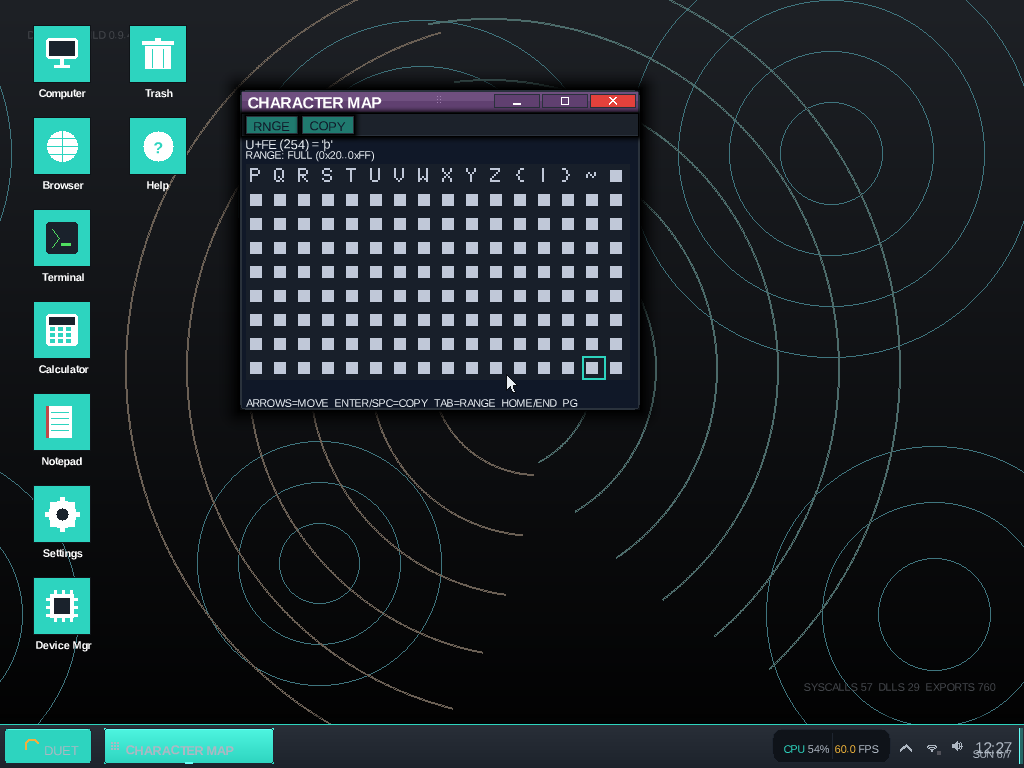
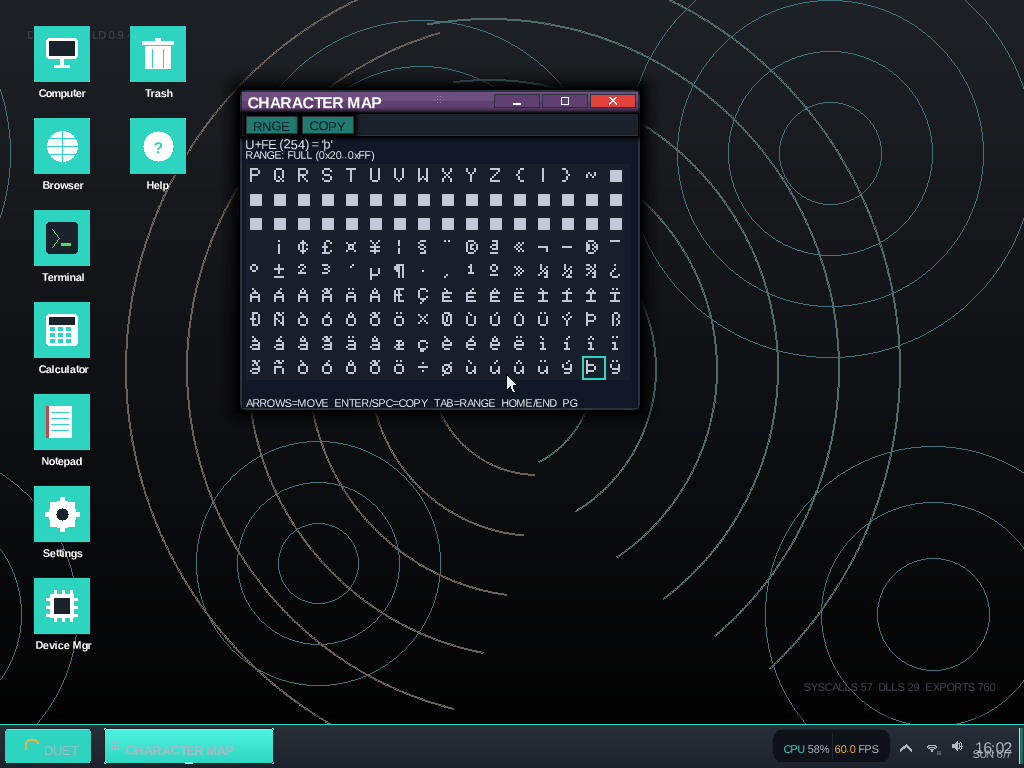
fix(charmap/font): render Latin-1 glyphs (F-016)
Case (b): the shared 8x8 bitmap font had no glyph data above 0x7F,
and Font8x8Lookup(char) took a signed char so every byte 0x80-0xFF
arrived negative, missed all the (positive) ASCII switch cases, and
fell through to the kGlyphBox notdef placeholder. CharMap's FULL
range therefore showed uniform tofu squares for U+0080-00FF.

Fix:
- Read the codepoint byte as u8 before dispatch (fixes the signed
  fall-through latent bug shared by every text caller).
- Add a 96-entry kLatin1[0x60] table for the printable Latin-1
  Supplement block U+00A0-00FF (accented letters, guillemets,
  copyright/registered, degree, plus-minus, division, multiply,
  currency, section, micro, pilcrow, fractions, ...). Same
  5x7-in-8x8 convention as the ASCII glyphs.
- The C1 control block 0x80-0x9F stays on the placeholder box
  (non-printable; box is the correct notdef).

The font is shared by every app, so verified ASCII text still
renders unchanged across the desktop icons / taskbar / window
chrome / status bar in the same screenshot.

Verified: WSL x86_64-debug build clean (0 warnings), clang-format
clean on touched files, charmap explore session boot rc=0,
233 self-tests OK / 0 non-deliberate FAIL, charmap-open.png shows
real Latin-1 glyphs across all rows (selected cell U+FE 'thorn').

Changed region(s): [[0.25, 0.3125, 0.625, 0.5], [0.9688, 0.9688, 1.0, 1.0]]

diff --git a/kernel/drivers/video/font8x8.cpp b/kernel/drivers/video/font8x8.cpp
@@ -98,10 +98,240 @@ constinit const u8 kGlyphLBrace[8] = {0x18, 0x20, 0x20, 0x40, 0x20, 0x20, 0x18, 
 constinit const u8 kGlyphRBrace[8] = {0xC0, 0x20, 0x20, 0x10, 0x20, 0x20, 0xC0, 0x00};
 constinit const u8 kGlyphBacktick[8] = {0x40, 0x20, 0x00, 0x00, 0x00, 0x00, 0x00, 0x00};
 
+// ---------------------------------------------------------------
+// Latin-1 Supplement printable range (U+00A0..U+00FF).
+//
+// Indexed by (byte - 0xA0), so kLatin1[0] is U+00A0 (NBSP) and
+// kLatin1[0x5F] is U+00FF ('ÿ'). The C1 control block U+0080..
+// U+009F is non-printable and intentionally NOT covered — those
+// bytes keep returning the placeholder box (correct: there is no
+// glyph for a control code).
+//
+// Same 5x7-in-8x8 convention as the ASCII glyphs above: one byte
+// per row, bit 7 = leftmost pixel, rightmost ~3 columns + bottom
+// row left blank so glyphs kern at the 8-pixel cell advance.
+// Accented letters reuse the base-letter body with a 1-row
+// diacritic stamped into row 0; the base body is shifted to start
+// a row lower where the accent needs the headroom.
+constinit const u8 kLatin1[0x60][8] = {
+    // 0xA0 NBSP — render as blank (a visible space, not a box).
+    {0x00, 0x00, 0x00, 0x00, 0x00, 0x00, 0x00, 0x00},
+    // 0xA1 ¡ inverted exclamation
+    {0x20, 0x00, 0x20, 0x20, 0x20, 0x20, 0x20, 0x00},
+    // 0xA2 ¢ cent
+    {0x20, 0x70, 0xA8, 0xA0, 0xA8, 0x70, 0x20, 0x00},
+    // 0xA3 £ pound
+    {0x30, 0x48, 0x40, 0xE0, 0x40, 0x48, 0xF0, 0x00},
+    // 0xA4 ¤ currency
+    {0x00, 0x88, 0x70, 0x50, 0x70, 0x88, 0x00, 0x00},
+    // 0xA5 ¥ yen
+    {0x88, 0x50, 0x20, 0xF8, 0x20, 0xF8, 0x20, 0x00},
+    // 0xA6 ¦ broken bar
+    {0x20, 0x20, 0x20, 0x00, 0x20, 0x20, 0x20, 0x00},
+    // 0xA7 § section
+    {0x70, 0x80, 0x60, 0x90, 0x60, 0x10, 0x70, 0x00},
+    // 0xA8 ¨ diaeresis
+    {0x50, 0x00, 0x00, 0x00, 0x00, 0x00, 0x00, 0x00},
+    // 0xA9 © copyright
+    {0x70, 0x88, 0xB4, 0xA4, 0xB4, 0x88, 0x70, 0x00},
+    // 0xAA ª feminine ordinal
+    {0x70, 0x10, 0x70, 0x90, 0x70, 0x00, 0xF0, 0x00},
+    // 0xAB « left guillemet
+    {0x00, 0x28, 0x50, 0xA0, 0x50, 0x28, 0x00, 0x00},
+    // 0xAC ¬ not sign
+    {0x00, 0x00, 0x00, 0xF8, 0x08, 0x08, 0x00, 0x00},
+    // 0xAD  soft hyphen — render like hyphen
+    {0x00, 0x00, 0x00, 0xF8, 0x00, 0x00, 0x00, 0x00},
+    // 0xAE ® registered
+    {0x70, 0x88, 0xD4, 0xCC, 0xD4, 0x88, 0x70, 0x00},
+    // 0xAF ¯ macron
+    {0xF8, 0x00, 0x00, 0x00, 0x00, 0x00, 0x00, 0x00},
+    // 0xB0 ° degree
+    {0x60, 0x90, 0x90, 0x60, 0x00, 0x00, 0x00, 0x00},
+    // 0xB1 ± plus-minus
+    {0x20, 0x20, 0xF8, 0x20, 0x20, 0x00, 0xF8, 0x00},
+    // 0xB2 ² superscript 2
+    {0x60, 0x90, 0x20, 0x40, 0xF0, 0x00, 0x00, 0x00},
+    // 0xB3 ³ superscript 3
+    {0xE0, 0x10, 0x60, 0x10, 0xE0, 0x00, 0x00, 0x00},
+    // 0xB4 ´ acute accent
+    {0x10, 0x20, 0x00, 0x00, 0x00, 0x00, 0x00, 0x00},
+    // 0xB5 µ micro
+    {0x00, 0x00, 0x88, 0x88, 0x88, 0xF0, 0x80, 0x80},
+    // 0xB6 ¶ pilcrow
+    {0x78, 0xE8, 0xE8, 0x68, 0x28, 0x28, 0x28, 0x00},
+    // 0xB7 · middle dot
+    {0x00, 0x00, 0x00, 0x20, 0x00, 0x00, 0x00, 0x00},
+    // 0xB8 ¸ cedilla
+    {0x00, 0x00, 0x00, 0x00, 0x00, 0x20, 0x40, 0x00},
+    // 0xB9 ¹ superscript 1
+    {0x20, 0x60, 0x20, 0x20, 0x70, 0x00, 0x00, 0x00},
+    // 0xBA º masculine ordinal
+    {0x60, 0x90, 0x90, 0x60, 0x00, 0xF0, 0x00, 0x00},
+    // 0xBB » right guillemet
+    {0x00, 0xA0, 0x50, 0x28, 0x50, 0xA0, 0x00, 0x00},
+    // 0xBC ¼ one quarter
+    {0x40, 0x48, 0x50, 0x28, 0x58, 0x88, 0x18, 0x00},
+    // 0xBD ½ one half
+    {0x40, 0x48, 0x50, 0x28, 0x48, 0x90, 0x38, 0x00},
+    // 0xBE ¾ three quarters
+    {0xC8, 0x28, 0xD0, 0x28, 0x58, 0x88, 0x18, 0x00},
+    // 0xBF ¿ inverted question
+    {0x20, 0x00, 0x20, 0x40, 0x80, 0x88, 0x70, 0x00},
+    // 0xC0 À A grave
+    {0x40, 0x20, 0x70, 0x88, 0xF8, 0x88, 0x88, 0x00},
+    // 0xC1 Á A acute
+    {0x10, 0x20, 0x70, 0x88, 0xF8, 0x88, 0x88, 0x00},
+    // 0xC2 Â A circumflex
+    {0x20, 0x50, 0x70, 0x88, 0xF8, 0x88, 0x88, 0x00},
+    // 0xC3 Ã A tilde
+    {0x68, 0xB0, 0x70, 0x88, 0xF8, 0x88, 0x88, 0x00},
+    // 0xC4 Ä A diaeresis
+    {0x50, 0x00, 0x70, 0x88, 0xF8, 0x88, 0x88, 0x00},
+    // 0xC5 Å A ring
+    {0x20, 0x50, 0x70, 0x88, 0xF8, 0x88, 0x88, 0x00},
+    // 0xC6 Æ AE ligature
+    {0x78, 0xA0, 0xA0, 0xF0, 0xA0, 0xA0, 0xB8, 0x00},
+    // 0xC7 Ç C cedilla
+    {0x70, 0x88, 0x80, 0x80, 0x88, 0x70, 0x20, 0x40},
+    // 0xC8 È E grave
+    {0x40, 0x20, 0xF8, 0x80, 0xF0, 0x80, 0xF8, 0x00},
+    // 0xC9 É E acute
+    {0x10, 0x20, 0xF8, 0x80, 0xF0, 0x80, 0xF8, 0x00},
+    // 0xCA Ê E circumflex
+    {0x20, 0x50, 0xF8, 0x80, 0xF0, 0x80, 0xF8, 0x00},
+    // 0xCB Ë E diaeresis
+    {0x50, 0x00, 0xF8, 0x80, 0xF0, 0x80, 0xF8, 0x00},
+    // 0xCC Ì I grave
+    {0x40, 0x20, 0xF8, 0x20, 0x20, 0x20, 0xF8, 0x00},
+    // 0xCD Í I acute
+    {0x10, 0x20, 0xF8, 0x20, 0x20, 0x20, 0xF8, 0x00},
+    // 0xCE Î I circumflex
+    {0x20, 0x50, 0xF8, 0x20, 0x20, 0x20, 0xF8, 0x00},
+    // 0xCF Ï I diaeresis
+    {0x50, 0x00, 0xF8, 0x20, 0x20, 0x20, 0xF8, 0x00},
+    // 0xD0 Ð Eth
+    {0x70, 0x48, 0x48, 0xE8, 0x48, 0x48, 0x70, 0x00},
+    // 0xD1 Ñ N tilde
+    {0x68, 0xB0, 0x88, 0xC8, 0xA8, 0x98, 0x88, 0x00},
+    // 0xD2 Ò O grave
+    {0x40, 0x20, 0x70, 0x88, 0x88, 0x88, 0x70, 0x00},
+    // 0xD3 Ó O acute
+    {0x10, 0x20, 0x70, 0x88, 0x88, 0x88, 0x70, 0x00},
+    // 0xD4 Ô O circumflex
+    {0x20, 0x50, 0x70, 0x88, 0x88, 0x88, 0x70, 0x00},
+    // 0xD5 Õ O tilde
+    {0x68, 0xB0, 0x70, 0x88, 0x88, 0x88, 0x70, 0x00},
+    // 0xD6 Ö O diaeresis
+    {0x50, 0x00, 0x70, 0x88, 0x88, 0x88, 0x70, 0x00},
+    // 0xD7 × multiplication
+    {0x00, 0x88, 0x50, 0x20, 0x50, 0x88, 0x00, 0x00},
+    // 0xD8 Ø O slash
+    {0x70, 0x98, 0xA8, 0xA8, 0xA8, 0xC8, 0x70, 0x00},
+    // 0xD9 Ù U grave
+    {0x40, 0x20, 0x88, 0x88, 0x88, 0x88, 0x70, 0x00},
+    // 0xDA Ú U acute
+    {0x10, 0x20, 0x88, 0x88, 0x88, 0x88, 0x70, 0x00},
+    // 0xDB Û U circumflex
+    {0x20, 0x50, 0x88, 0x88, 0x88, 0x88, 0x70, 0x00},
+    // 0xDC Ü U diaeresis
+    {0x50, 0x00, 0x88, 0x88, 0x88, 0x88, 0x70, 0x00},
+    // 0xDD Ý Y acute
+    {0x10, 0x20, 0x88, 0x50, 0x20, 0x20, 0x20, 0x00},
+    // 0xDE Þ Thorn
+    {0x80, 0xF0, 0x88, 0x88, 0xF0, 0x80, 0x80, 0x00},
+    // 0xDF ß sharp s
+    {0x30, 0x48, 0x48, 0x50, 0x48, 0x48, 0x50, 0x00},
+    // 0xE0 à a grave
+    {0x40, 0x20, 0x70, 0x08, 0x78, 0x88, 0x78, 0x00},
+    // 0xE1 á a acute
+    {0x10, 0x20, 0x70, 0x08, 0x78, 0x88, 0x78, 0x00},
+    // 0xE2 â a circumflex
+    {0x20, 0x50, 0x70, 0x08, 0x78, 0x88, 0x78, 0x00},
+    // 0xE3 ã a tilde
+    {0x68, 0xB0, 0x70, 0x08, 0x78, 0x88, 0x78, 0x00},
+    // 0xE4 ä a diaeresis
+    {0x50, 0x00, 0x70, 0x08, 0x78, 0x88, 0x78, 0x00},
+    // 0xE5 å a ring
+    {0x20, 0x50, 0x70, 0x08, 0x78, 0x88, 0x78, 0x00},
+    // 0xE6 æ ae ligature
+    {0x00, 0x00, 0x70, 0x28, 0x78, 0xA0, 0x78, 0x00},
+    // 0xE7 ç c cedilla
+    {0x00, 0x00, 0x70, 0x88, 0x80, 0x88, 0x70, 0x60},
+    // 0xE8 è e grave
+    {0x40, 0x20, 0x70, 0x88, 0xF8, 0x80, 0x70, 0x00},
+    // 0xE9 é e acute
+    {0x10, 0x20, 0x70, 0x88, 0xF8, 0x80, 0x70, 0x00},
+    // 0xEA ê e circumflex
+    {0x20, 0x50, 0x70, 0x88, 0xF8, 0x80, 0x70, 0x00},
+    // 0xEB ë e diaeresis
+    {0x50, 0x00, 0x70, 0x88, 0xF8, 0x80, 0x70, 0x00},
+    // 0xEC ì i grave
+    {0x40, 0x20, 0x00, 0x60, 0x20, 0x20, 0x70, 0x00},
+    // 0xED í i acute
+    {0x10, 0x20, 0x00, 0x60, 0x20, 0x20, 0x70, 0x00},
+    // 0xEE î i circumflex
+    {0x20, 0x50, 0x00, 0x60, 0x20, 0x20, 0x70, 0x00},
+    // 0xEF ï i diaeresis
+    {0x50, 0x00, 0x00, 0x60, 0x20, 0x20, 0x70, 0x00},
+    // 0xF0 ð eth
+    {0x68, 0x30, 0x50, 0x08, 0x78, 0x88, 0x70, 0x00},
+    // 0xF1 ñ n tilde
+    {0x68, 0xB0, 0x00, 0xF0, 0x88, 0x88, 0x88, 0x00},
+    // 0xF2 ò o grave
+    {0x40, 0x20, 0x70, 0x88, 0x88, 0x88, 0x70, 0x00},
+    // 0xF3 ó o acute
+    {0x10, 0x20, 0x70, 0x88, 0x88, 0x88, 0x70, 0x00},
+    // 0xF4 ô o circumflex
+    {0x20, 0x50, 0x70, 0x88, 0x88, 0x88, 0x70, 0x00},
+    // 0xF5 õ o tilde
+    {0x68, 0xB0, 0x70, 0x88, 0x88, 0x88, 0x70, 0x00},
+    // 0xF6 ö o diaeresis
+    {0x50, 0x00, 0x70, 0x88, 0x88, 0x88, 0x70, 0x00},
+    // 0xF7 ÷ division
+    {0x00, 0x20, 0x00, 0xF8, 0x00, 0x20, 0x00, 0x00},
+    // 0xF8 ø o slash
+    {0x00, 0x08, 0x70, 0x98, 0xA8, 0xC8, 0x70, 0x80},
+    // 0xF9 ù u grave
+    {0x40, 0x20, 0x00, 0x88, 0x88, 0x98, 0x68, 0x00},
+    // 0xFA ú u acute
+    {0x10, 0x20, 0x00, 0x88, 0x88, 0x98, 0x68, 0x00},
+    // 0xFB û u circumflex
+    {0x20, 0x50, 0x00, 0x88, 0x88, 0x98, 0x68, 0x00},
+    // 0xFC ü u diaeresis
+    {0x50, 0x00, 0x00, 0x88, 0x88, 0x98, 0x68, 0x00},
+    // 0xFD ý y acute
+    {0x10, 0x20, 0x88, 0x88, 0x78, 0x08, 0x70, 0x00},
+    // 0xFE þ thorn
+    {0x80, 0x80, 0xF0, 0x88, 0x88, 0xF0, 0x80, 0x00},
+    // 0xFF ÿ y diaeresis
+    {0x50, 0x00, 0x88, 0x88, 0x78, 0x08, 0x70, 0x00},
+};
+
 } // namespace
 
 const u8* Font8x8Lookup(char ch)
 {
+    // Read the codepoint byte as unsigned: `char` is signed on
+    // x86_64, so without this any byte in 0x80..0xFF would arrive
+    // negative and miss every (positive) ASCII case below, falling
+    // straight to the placeholder box. That signed fall-through was
+    // why CharMap's Latin-1 rows rendered as tofu (F-016).
+    const u8 byte = static_cast<u8>(ch);
+
+    // Latin-1 Supplement printable range U+00A0..U+00FF → dedicated
+    // table indexed by (byte - 0xA0). The C1 control block
+    // U+0080..U+009F is intentionally left to the placeholder box
+    // (no glyph for a control code).
+    if (byte >= 0xA0)
+    {
+        return kLatin1[byte - 0xA0];
+    }
+    if (byte >= 0x80)
+    {
+        return kGlyphBox;
+    }
+
     // Lowercase → uppercase: v0 alphabet has uppercase glyphs only.
     // Real lowercase shapes grow this table in a follow-up slice.
     if (ch >= 'a' && ch <= 'z')

diff --git a/kernel/drivers/video/font8x8.h b/kernel/drivers/video/font8x8.h
@@ -16,10 +16,13 @@
  *   - Uppercase A..Z (0x41..0x5A)
  *   - Lowercase a..z aliased to uppercase at lookup time
  *   - Common punctuation: . , : ; - _ / \ ! ? ( ) [ ] < > = + * "
+ *   - Latin-1 Supplement printable range U+00A0..U+00FF (accented
+ *     letters, guillemets, © ® ° ± ÷ × £ ¥ ¢ § µ ¶ ½ … etc.)
  *
- * Every other ASCII code renders as a filled-box placeholder so
- * unmapped characters are visible-but-clearly-unmapped. Extending
- * coverage is drop-in: add bytes to the table + index.
+ * Bytes 0x80..0x9F (the C1 control block) and any unmapped ASCII
+ * code render as a filled-box placeholder so unmapped characters
+ * are visible-but-clearly-unmapped. Extending coverage is drop-in:
+ * add bytes to the table + index.
  *
  * Context: kernel. Font data lives in .rodata; lookup is a pure
  * table read, safe from any context.

diff --git a/wiki/subsystems/Compositor.md b/wiki/subsystems/Compositor.md
@@ -41,8 +41,12 @@ framebuffer:
     scrollbar drag-the-thumb path.
   - **Character Map** — codepoint grid over the bitmap font's
     printable range (0x20..0x7E ASCII; Tab toggles to the full
-    0x20..0xFF range that includes the font8x8 extended glyphs).
-    Enter / Space copies the selected glyph as UTF-8 to the
+    0x20..0xFF range). The `font8x8` table covers ASCII plus the
+    Latin-1 Supplement printable block U+00A0..U+00FF (accented
+    letters, guillemets, © ® ° ± ÷ × £ ¥ ¢ § µ ¶ fractions, …);
+    the C1 control block 0x80..0x9F is non-printable and renders
+    as the placeholder box. Enter / Space copies the selected
+    glyph as UTF-8 to the
     clipboard so it pastes into Notes / Calculator / Browser via
     the standard Ctrl+V path.
 - **Win32 PE windows**: `windowed_hello` paints with `Rectangle` /

diff --git a/docs/usability/findings.md b/docs/usability/findings.md
@@ -37,7 +37,7 @@ Every session below was guest-healthy (boot-log-analyze rc=0, 233 self-tests OK,
 | F-013 | calculator | Low | arithmetic correctness / precedence / divide-by-zero / backspace unverified — generic driver types letters; needs an arithmetic driver | (coverage) |
 | F-014 | notes | Low | "UNSAVED CHANGES" dialog body text unreadable (dark-on-near-black); cancel button unlabeled | notes-closed.png |
 | F-015 | notes | Low | status bar shows char/word counts but not the filename | notes-enter.png |
-| F-016 | charmap | High | Latin-1 Supplement glyphs (U+0080–00FF) all render as notdef/tofu squares — the app's core purpose (browse non-ASCII) is non-functional | charmap-open.png |
+| F-016 | charmap | High | Latin-1 Supplement glyphs (U+0080–00FF) all render as notdef/tofu squares — the app's core purpose (browse non-ASCII) is non-functional | charmap-open.png | **fixed.** Case (b): the shared 8x8 bitmap font (`font8x8.cpp`) had no glyph data above 0x7F, and `Font8x8Lookup(char)` took a *signed* char so every byte 0x80–0xFF arrived negative, missed all ASCII cases, and fell to the `kGlyphBox` placeholder. Fix: read the byte as `u8` first, and add a 96-entry Latin-1 table (`kLatin1[0x60]`) for the printable range U+00A0–00FF (accented letters, guillemets, © ® ° ± ÷ × £ ¥ ¢ § µ ¶ ½ …). The C1 control block 0x80–0x9F correctly keeps the placeholder box (non-printable). Verified in `charmap-open.png` (FULL range): real glyphs render across all Latin-1 rows; ASCII text elsewhere (desktop/taskbar/chrome) unchanged. |
 | F-017 | charmap | Medium | no font selector; no Unicode name shown for selected glyph (only hex code point) | charmap-open/enter.png |
 | F-018 | files | High | type-ahead consumed by single-key global shortcuts — typing 't' jumps to TRASH view instead of filename match; any letter matching a shortcut is destructive | files-typed.png |
 | F-019 | files | Medium | no Back/Forward history nav; no modified-date column; subdir descent stubbed ("subdir descent not in v0") despite `[D] SUB` shown | files-open.png |